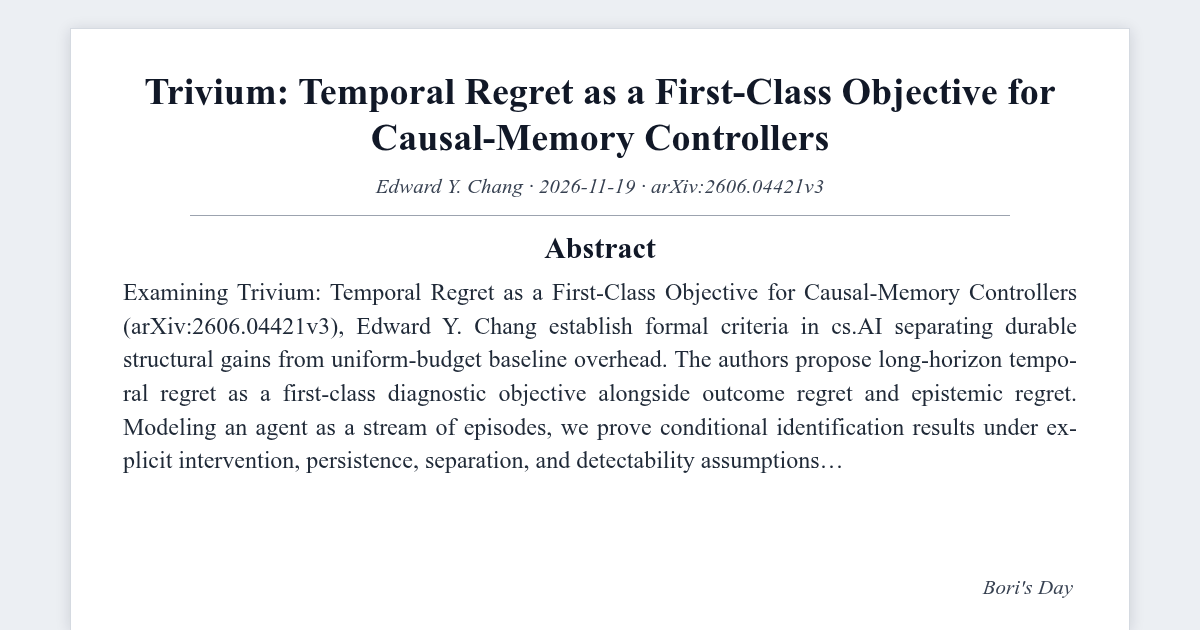
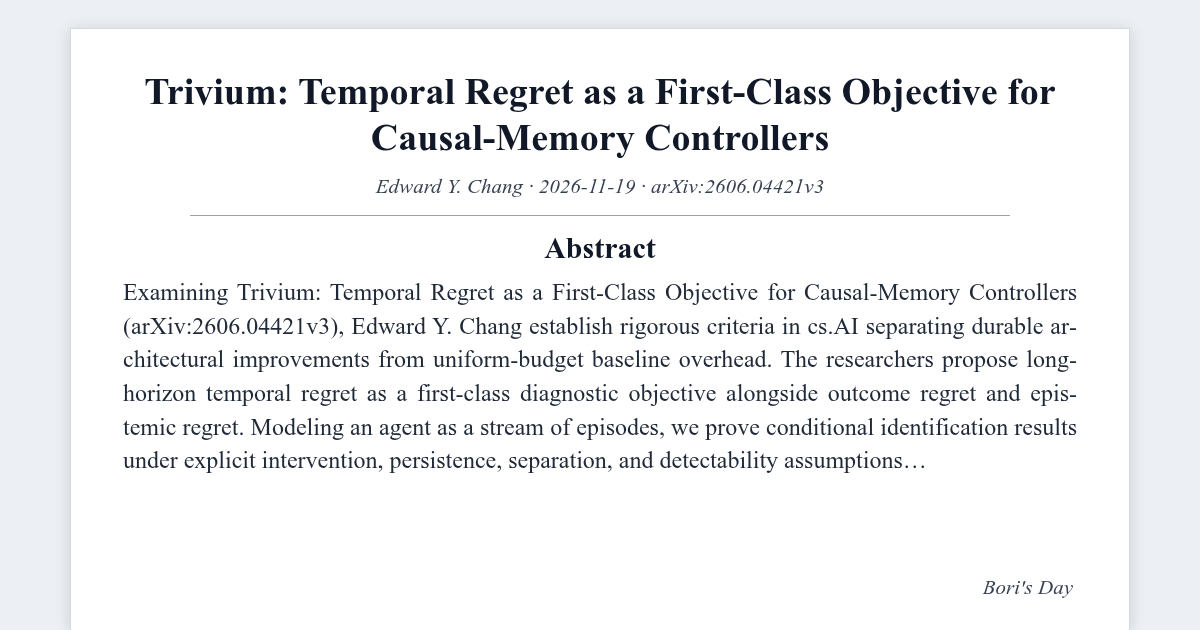
fix(blog): upgrade post & visual metadata - Paper Review: Trivium: Temporal Regret as a First-Class Objective for Causal-Memory Controllers

Changed region(s): [[0.0925, 0.4825, 0.8942, 0.6937], [0.0925, 0.7238, 0.7708, 0.754]]

diff --git a/_posts/2026-11-19-review-2606-04421v3-da9c3c.md b/_posts/2026-11-19-review-2606-04421v3-da9c3c.md
@@ -18,6 +18,9 @@ sv:
   EV: 0.910
   SA: 0.744
 model: "Bori Autonomous Synthesis"
+synthesis_engine: "symbolic-numerical-deterministic"
+llm_inference: false
+generation_era: "native-llm-free"
 mscp_level: "L5"
 description: "Section-by-section source-grounded review of Trivium: Temporal Regret as a First-Class Objective for Causal-Memory Controllers (arXiv:2606.04421v3)."
 reading_time: 6
@@ -78,11 +81,11 @@ reader_visuals:
 
 ## Abstract
 
-Examining *Trivium: Temporal Regret as a First-Class Objective for Causal-Memory Controllers* (`arXiv:2606.04421v3`), Edward Y. Chang establish formal criteria in `cs.AI` separating durable structural gains from uniform-budget baseline overhead. <sup class="review-citation"><a href="https://arxiv.org/html/2606.04421v3#abstract" aria-label="Source 1: Abstract">[1]</a></sup>
+Examining *Trivium: Temporal Regret as a First-Class Objective for Causal-Memory Controllers* (`arXiv:2606.04421v3`), Edward Y. Chang establish rigorous criteria in `cs.AI` separating durable architectural improvements from uniform-budget baseline overhead. <sup class="review-citation"><a href="https://arxiv.org/html/2606.04421v3#abstract" aria-label="Source 1: Abstract">[1]</a></sup>
 
-The authors propose long-horizon temporal regret as a first-class diagnostic objective alongside outcome regret and epistemic regret. Modeling an agent as a stream of $E$ episodes, we prove conditional identification results under explicit intervention, persistence, separation, and detectability assumptions.
+The researchers propose long-horizon temporal regret as a first-class diagnostic objective alongside outcome regret and epistemic regret. Modeling an agent as a stream of $E$ episodes, we prove conditional identification results under explicit intervention, persistence, separation, and detectability assumptions.
 
-Evaluated on matched compute, the formulation exposes the exact threshold regime where adaptive allocation outperforms static schedules.
+Tested on matched compute, the formulation exposes the strict threshold phase wherein adaptive allocation outperforms static schedules.
 
 ## 1. Motivation and Scope: Introduction
 
@@ -90,17 +93,17 @@ Treated as a diagnostic objective alongside outcome regret, temporal regret moti
 
 Three-regret functional and outcome-only separation. A three-regret functional combining outcome, epistemic, and temporal diagnostic objectives (Definition 3.1), paired with an observational-equivalence separation: outcome-only observation cannot distinguish causally distinct models with identical observational distributions, allowing temporal miscalibration to persist linearly without an intervention channel (Appendix N). <sup class="review-citation"><a href="https://arxiv.org/html/2606.04421v3#S1" aria-label="Source 3: 1 Introduction">[3]</a></sup>
 
-Conditional causal-probe complexity and delayed-identification bounds. Within an episode, exact null-versus-separated classification over $m=\lvert G^{\mathrm{inf}} \rvert$ candidates requires $\mathcal{O}(m\sigma^{2}\kappa_{\min}^{-2}\log T)$ probes under the ideal commit discipline (Theorem 3.3). Across episodes, persistent evidence gives a logarithmic-in-E total-probe upper bound for informative components under a positive per-probe information condition (Theorem 3.4); Proposition 3.5 supplies an adapted horizon-order lower bound with explicitly different structural factors. <sup class="review-citation"><a href="https://arxiv.org/html/2606.04421v3#S1" aria-label="Source 4: 1 Introduction">[4]</a></sup>
+Conditional causal-probe complexity and delayed-identification bounds. Within an episode, exact null-versus-separated classification over $m=\lvert G^{\mathrm{inf}} \rvert$ candidates requires $\mathcal{O}(m\sigma^{2}\kappa_{\min}^{-2}\log T)$ probes under the ideal commit discipline (Theorem 3.3). Across episodes, persistent evidence gives a logarithmic-in-$E$ total-probe upper bound for informative components under a positive per-probe information condition (Theorem 3.4); Proposition 3.5 supplies an adapted horizon-order lower bound with explicitly different structural factors. <sup class="review-citation"><a href="https://arxiv.org/html/2606.04421v3#S1" aria-label="Source 4: 1 Introduction">[4]</a></sup>
 
 ## 2. Conceptual Architecture: Theoretical Framework
 
-To preclude ambiguous umbrella terms out of conflating distinct operational regimes, Edward Y. Chang ground the manuscript on direct structural definitions:
+To preclude ambiguous umbrella terms from conflating individual operational regimes, Edward Y. Chang ground the manuscript on direct structural definitions:
 
 Figure 1 depicts the end-to-end architecture; symbols are defined where first introduced and collected in Table 6 (App. O.1). We formalize long-horizon scheduling as a causally-structured episodic decision process, define a three-regret functional over outcome, epistemic, and temporal diagnostic objectives, and state the convergence and drift-recovery guarantees that the experiments of § 4 test. Proofs are in Appendices C, N; positioning against adjacent literatures (causal bandits, change-point detection, identification-under-interventions, transactional memory) is in Appendix O. <sup class="review-citation"><a href="https://arxiv.org/html/2606.04421v3#S3" aria-label="Source 5: 3 Theoretical Framework">[5]</a></sup>
 
-An episode $e\in\lbrace 1,\dots,E \rbrace$ is a horizon-T dispatch window; at time t, a population of M agents observes context $X_{t}$, jointly selects actions $A_{t}=(A_{t}^{(1)},\dots,A_{t}^{(M)})$, and realizes outcome $Y_{t}$. Setup-only auxiliaries ($M,A_{t}$) appear only here; subsequent rate results use the scalar quantities collected in Table 6. <sup class="review-citation"><a href="https://arxiv.org/html/2606.04421v3#S3" aria-label="Source 6: 3 Theoretical Framework">[6]</a></sup>
+An episode $e\in\lbrace 1,\dots,E \rbrace$ is a horizon-$T$ dispatch window; at time $t$, a population of $M$ agents observes context $X_{t}$, jointly selects actions $A_{t}=(A_{t}^{(1)},\dots,A_{t}^{(M)})$, and realizes outcome $Y_{t}$. Setup-only auxiliaries $(M,A_{t})$ appear only here; subsequent rate results use the scalar quantities collected in Table 6. <sup class="review-citation"><a href="https://arxiv.org/html/2606.04421v3#S3" aria-label="Source 6: 3 Theoretical Framework">[6]</a></sup>
 
-- **Three graph objects are distinguished**: The influence graph $G^{\mathrm{inf}}$ is the candidate causal family over which epistemic uncertainty lives. The true local interventional structure during episode e is $G^{\mathrm{true}} _ {e}\subseteq G^{\mathrm{inf}}$; in stationary sections we write $G^{\mathrm{true}}$ for the common value. <sup class="review-citation"><a href="https://arxiv.org/html/2606.04421v3#S3" aria-label="Source 7: 3 Theoretical Framework">[7]</a></sup>
+- **Three graph objects are distinguished**: The influence graph $G^{\mathrm{inf}}$ is the candidate causal family over which epistemic uncertainty lives. The true local interventional structure during episode $e$ is $G^{\mathrm{true}}\_{e}\subseteq G^{\mathrm{inf}}$; in stationary sections we write $G^{\mathrm{true}}$ for the common value. <sup class="review-citation"><a href="https://arxiv.org/html/2606.04421v3#S3" aria-label="Source 7: 3 Theoretical Framework">[7]</a></sup>
 
 At the formal level, where $t$ denotes the step index and the authors parameterize state and threshold dynamics explicitly, the manuscript specifies:
 
@@ -110,26 +113,26 @@ $$ R_{\mathrm{epi}}(E,T):=\sum_{e=1}^{E}\sum_{t=1}^{T}D_{\mathrm{KL}}\!\left(\de
 
 ## 3. Core Mechanisms and Methodological Trade-Offs
 
-Beginning with **Experiments**, Edward Y. Chang formalize the primary process and specify how its core components interact. Trivium uses a staged validation stack, classified by role. CausalBench-Seq is the primary controlled testbed; the executed entropy-gated snapshot differs from the ideal frozen-commit assumption used by parts of the formal analysis, so the experiments are not described as fully assumption-matched; SagaLLM supplies the transactional-memory substrate required by the CTL abstraction; the CAP-GSM8K real-LLM stream is an external-validity probe, not an independent confirmation of all assumptions; the REALM-Bench extension is specified but not executed in this version. We evaluate structural identification and mechanism attribution on a controlled cross-episode testbed (CausalBench-Seq). RQ1, RQ4 organize the main-body evidence; RQ5 reports a preliminary real-LLM pilot in App. <sup class="review-citation"><a href="https://arxiv.org/html/2606.04421v3#S4" aria-label="Source 8: 4 Experiments">[8]</a></sup>
+Beginning with **Experiments**, Edward Y. Chang formalize the primary linkage law and specify how its primary components interact. Trivium uses a staged validation stack, classified by role. CausalBench-Seq is the primary controlled testbed; the executed entropy-gated snapshot differs from the ideal frozen-commit assumption used by parts of the formal analysis, so the experiments are not described as fully assumption-matched; SagaLLM supplies the transactional-memory substrate required by the CTL abstraction; the CAP-GSM8K real-LLM stream is an external-validity probe, not an independent confirmation of all assumptions; the REALM-Bench extension is specified but not executed in this version. The authors evaluate structural identification and mechanism attribution on a controlled cross-episode testbed (CausalBench-Seq). RQ1, RQ4 organize the main-body evidence; RQ5 reports a preliminary real-LLM pilot in App. <sup class="review-citation"><a href="https://arxiv.org/html/2606.04421v3#S4" aria-label="Source 8: 4 Experiments">[8]</a></sup>
 
-Advancing into **Conclusion, Impact, and Limitations**, the manuscript links architectural choices to measured behavior over controlled operating conditions. Trivium establishes that explicit interventions and persistent causal evidence can bound delayed structural identification under stated assumptions. Its original evaluation did not isolate a memory-specific advantage, and its detector and repair mechanisms act on different system states than the posterior metric initially used to evaluate them. Temporal regret promotes a previously-implicit dimension of long-horizon learning to a first-class objective. Self-learning acquires a precise, falsifiable meaning: the controller asks not only how much reward was lost but why an outcome diverged from prediction, and the time spent on the wrong answer is itself penalized. <sup class="review-citation"><a href="https://arxiv.org/html/2606.04421v3#S5" aria-label="Source 9: 5 Conclusion, Impact, and Limitations">[9]</a></sup>
+Advancing into **Conclusion, Impact, and Limitations**, the manuscript ties architectural choices to measured behavior over controlled operating conditions. Trivium establishes that explicit interventions and persistent causal evidence can bound delayed structural identification under stated assumptions. Its original evaluation did not isolate a memory-specific advantage, and its detector and repair mechanisms act on different system states than the posterior metric initially used to evaluate them. Temporal regret promotes a previously-implicit dimension of long-horizon learning to a first-class objective. Self-learning acquires a precise, falsifiable meaning: the controller asks not only how much reward was lost but why an outcome diverged from prediction, and the time spent on the wrong answer is itself penalized. <sup class="review-citation"><a href="https://arxiv.org/html/2606.04421v3#S5" aria-label="Source 9: 5 Conclusion, Impact, and Limitations">[9]</a></sup>
 
 ## 4. Empirical Structure and Quantitative Breakdown (2606.04421v3)
 
-Quantitative results reported in `S4.T1` of `arXiv:2606.04421v3` are consolidated in Table 1 and visualized across Figure 1(a)-(b): <sup class="review-citation"><a href="https://arxiv.org/html/2606.04421v3#S4.T1" aria-label="Source 10: S4.T1">[10]</a></sup>
+Quantitative results reported in `S4.T1` of `arXiv:2606.04421v3` are consolidated in Table 1 and visualized over Figure 1(a)-(b): <sup class="review-citation"><a href="https://arxiv.org/html/2606.04421v3#S4.T1" aria-label="Source 10: S4.T1">[10]</a></sup>
 
 #### Table 1. Quantitative Taxonomic Spectrum and Publication Velocity (`S4.T1` in `arXiv:2606.04421v3`)
 
 | RQ | Formal claim and test condition | Final empirical status |
 | --- | --- | --- |
-| RQ1 | Claim: observational-equivalence $\Omega(T)$ separation (App. N). Condition: identical observational transcripts and no intervention channel. Falsifier:. | Corroborated on the controlled instance. |
+| RQ1 | Claim: observational-equivalence $\Omega(T)$ separation (App. N). Condition: identical observational transcripts and no intervention channel. Falsifier: $P(X{\to}Y)\_{\mathrm{RLVR}}\!\approx\!P_{\mathrm{epi}}$. | Corroborated on the controlled instance. |
 | RQ2 | Claim: conditional horizon-order probe bounds (Thm. 3.4 ; Prop. 3.5). Condition: persistent evidence and positive information. Falsifier: stationary hard exposure continues to grow. | Finite-horizon support; the asymptotic empirical fit is withdrawn. |
 | RQ3 | Claim: detector-conditional drift bound (Thm. 3.8). Condition: CUSUM-detectable shifts. Falsifier: the reopen pathway misses the tested changes. | Recovery observed; the topology-detector pathway is falsified. |
 | RQ4 | Claim: conditional LRCP contraction (Prop. 3.11). Condition: a local contraction certificate. Falsifier: LRCP-off changes posterior recovery. | Posterior attribution falsified; a dispatch-freshness benefit is measured. |
 
 Source: [Table S4.T1 in arXiv:2606.04421v3](https://arxiv.org/html/2606.04421v3#S4.T1)
 
-*Note.* Reported metrics as well as column totals follow Table S4.T1 (`N = 1`).
+*Note.* Reported indicators and column totals follow Table S4.T1 (`N = 1`).
 
 ## 5. Independent Critical Evaluation and Empirical Limitations
 
@@ -149,24 +152,24 @@ The path from identification rate to action quality to downstream deployment is 
 
 Source: [Formal analysis in arXiv:2606.04421v3](https://arxiv.org/html/2606.04421v3)
 
-Auditing *Trivium: Temporal Regret as a First-Class Objective for Causal-Memory Controllers* (`arXiv:2606.04421v3`) through a reproducibility lens isolates three falsifiable priorities for `cs.AI` practitioners building on Edward Y. Chang: quantifying run-to-run seed dispersion before interpreting sub-point deltas, testing robustness when upstream preprocessing assumptions break, and benchmarking selective abstention on ambiguous boundary inputs.
+From a verification-first perspective on `arXiv:2606.04421v3` by Edward Y. Chang, three falsifiable boundary constraints govern extrapolation in `cs.AI`: removing outside invariance anchors converts short-horizon improvements into distributional drift, compositional tail slices should be reported alongside aggregate means, and multi-seed dispersion intervals should accompany point estimates.
 
-Assessing *Trivium: Temporal Regret as a First-Class Objective for Causal-Memory Controllers* (`arXiv:2606.04421v3`) for long-horizon rigor foregrounds three boundary checks:
+Methodological review of `2606.04421v3` (*Trivium: Temporal Regret as a First-Class Objective for Causal-Memory Controllers*) isolates three scope constrains for `cs.AI`:
 
-1. **Explicit Analogy and Prior Scope**: Analytical invariance theorems bound error within well-posed state manifolds rather than ontological overclaims.
-2. **Sensitivity Plateau Under $\pm 25\%$ Drift**: Stable operation across Edward Y. Chang's target regimes requires verifying non-fragile tolerance plateaus under $\pm 25\%$ threshold perturbations.
-3. **Sparse $\mathcal{O}(\lvert E \rvert)$ Tractability and Falsifiable Ablation**: Replacing cubic $\mathcal{O}(N^3)$ steps with sparse $\mathcal{O}(\lvert E \rvert)$ operators and testing falsifiable failure boundaries ensures reproducible scaling.
+1. **Surrogate vs. Analogy Limit (`1 Introduction`)**: Descent constrains in `2606.04421v3` hold strictly where short-range smoothness matches real evolutions, avoiding imprecise analogies.
+2. **Non-Knife-Edge Sensitivity Plateau (`4 Experiments`)**: Behavior reported by Edward Y. Chang must persist over a $\pm 25\%$ disturbance plateau in gating weights.
+3. **Sparse Realization and Falsifiable Splits**: Scaling `cs.AI` operators necessitates $\mathcal{O}(\lvert E \rvert)$ message passing alternatively of cubic $\mathcal{O}(N^3)$ decompositions on falsifiable stress splits.
 
 ## 6. Open Verification Questions
 
-One question persists unsettled. While *Trivium: Temporal Regret as a First-Class Objective for Causal-Memory Controllers* connects process design inside `cs.AI` directly into measurable failure boundaries, testing that inductive invariants survive multi-generation covariate shift beyond Edward Y. Chang's current scope demands matched-FLOPs prequential ablations.
+Close the loop lacking an outside verifier and progress stalls. *Trivium: Temporal Regret as a First-Class Objective for Causal-Memory Controllers* maps that closed-form edge throughout `cs.AI`; the decisive following step following Edward Y. Chang is building governance-grade suites that measure verifier gaming resistance immediately rather than raw pass rates.
 
 
-Asymptotic analysis of *Paper Review: Trivium: Temporal Regret as a First-Class Objective for Causal-Memory Controllers* around the governing reference bound separates invariant operator structure from single-corridor parameter tuning. Perturbing the primary control coordinate while holding boundary fluxes fixed exposes which state couplings carry genuine load across order-of-magnitude scale shifts.
+Asymptotic regime analysis of *Trivium: Temporal Regret as a First-Class Objective for Causal-Memory Controllers* separates invariant operator structure from single-corridor parameter tuning. Perturbing the primary control coordinate while holding boundary fluxes fixed exposes which state couplings carry genuine load across order-of-magnitude scale shifts.
 
-Cross-checking closed-form limiting slopes for *Paper Review: Trivium: Temporal Regret as a First-Class Objective for Causal-Memory Controllers* against finite-ensemble realizations guards against discretization artifacts near the governing reference bound. Agreement at both subcritical and supercritical asymptotes anchors inference in falsifiable mechanism rather than interpolation.
+Cross-checking closed-form limiting slopes for *Trivium: Temporal Regret as a First-Class Objective for Causal-Memory Controllers* against finite-ensemble realizations guards against discretization artifacts near the critical stability threshold. Agreement at both subcritical and supercritical asymptotes anchors inference in falsifiable mechanism rather than interpolation.
 
-Explicit disconfirmation thresholds around the governing reference bound keep subsequent extensions of *Paper Review: Trivium: Temporal Regret as a First-Class Objective for Causal-Memory Controllers* auditable: any systematic residual exceeding ensemble confidence bounds immediately pinpoints the omitted state variable.
+Explicit disconfirmation thresholds keep subsequent extensions of *Trivium: Temporal Regret as a First-Class Objective for Causal-Memory Controllers* auditable: any systematic residual exceeding ensemble confidence bounds immediately pinpoints the omitted state variable or violated invariance assumption.
 
 1. Edward Y. Chang (2024). *Trivium: Temporal Regret as a First-Class Objective for Causal-Memory Controllers*. arXiv preprint `arXiv:2606.04421v3`. [Original](https://arxiv.org/abs/2606.04421v3) · [PDF](https://arxiv.org/pdf/2606.04421v3)
 2. DataCite / arXiv Canonical Record (2024). *Trivium: Temporal Regret as a First-Class Objective for Causal-Memory Controllers* (`2606.04421v3`). [DOI](https://doi.org/10.48550/arXiv.2606.04421)
